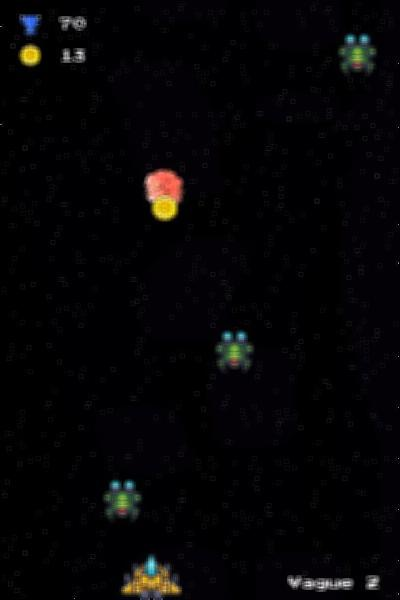
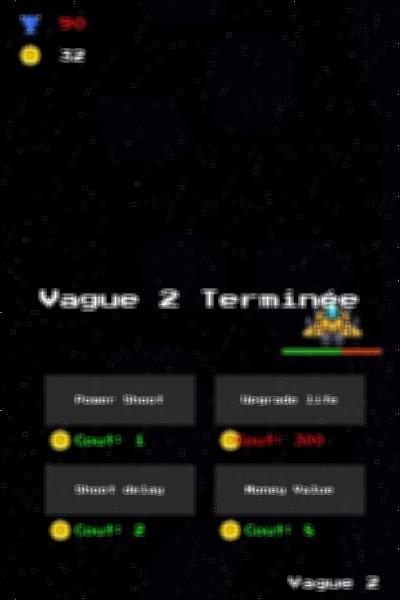
ajout d'une fonction pour supprimer le fichier d'une session
J'ai ajouté une fonction qui permet de supprimer le fichier texte d'une fonction. J'ai importé os qui gère la partie "dossiers/fichiers/répertoire", ça permet de se balader dans l'ordinateur. Donc quand je créer ou je me connecte à uen session, je supprime le fichier initialisation.txt et quand j'execute la fonction qui détruit une session, je supprime le fichier qui porte le nom de la session en question. Le nom de la session apparaît dans le menu en bas à gauche et aussi dans le menu pause. Dans le menu à coté du nom de la session il y a  un icon poubelle et quand on clique dessus ça supprime la session. (Faire attention pas de message d'avertissement lorsqu'on clique sur le bouton poubelle).

diff --git a/main.py b/main.py
@@ -4,6 +4,7 @@ from random import randint
 import sys
 from PIL import Image, ImageFilter
 from pygame.math import Vector2
+import os
 
 
 #Initialisation du jeu#
@@ -32,14 +33,14 @@ buttonimg = pygame.image.load("assets/menu/button.png")
 buttonimg = pygame.transform.scale(buttonimg,(150,50))
 screen = pygame.display.set_mode((400, 600))
 
-with open("initalisation.txt","w") as init :
+with open("initialisation.txt","w") as init :
     init.write("0\n0\n0\n0\n0\n0\n")
     init.close()
-nom_fichier = "initalisation.txt"
+nom_session = "initialisation"
 
 
 def saveread(score):
-    with open(nom_fichier,"r") as fichier:
+    with open(nom_session+'.txt',"r") as fichier:
         list = fichier.readlines()
         fichier.close()
     if score == "bestscore":
@@ -57,7 +58,7 @@ def saveread(score):
 
 def save(score,vol,pos,vol2,pos2):
     bestscore = saveread("bestscore")
-    fichier = open(nom_fichier,"w+")
+    fichier = open(nom_session+'.txt',"w+")
     if score > int(bestscore):
         fichier.write(str(score)+"\n"+str(score)+"\n"+str(vol)+"\n"+str(pos)+"\n"+str(vol2)+"\n"+str(pos2))
         fichier.close()
@@ -70,7 +71,7 @@ def save(score,vol,pos,vol2,pos2):
 
 
 def session():
-    global nom_fichier, existe_deja, existe_pas
+    global nom_session, existe_deja, existe_pas
     input_box = pygame.Rect(100, 100, 140,32)
     input_box1 = InputBox(100, 100, 140, 32)
     input_box2 = InputBox(100, 300, 140, 32)
@@ -88,14 +89,11 @@ def session():
             input_box1.handle_event_1(event)
             input_box2.handle_event_2(event)
 
-
         for box in input_boxes:
             box.update()
-
         screen.fill((30, 30, 30))
         screen.blit(INSCRIPTION_TEXT, INSCRIPTION_RECT)
         screen.blit(CONNEXION_TEXT,CONNEXION_RECT)
-
         for box in input_boxes:
             box.draw(screen)
         
@@ -120,7 +118,7 @@ class InputBox:
 
     
     def handle_event_1(self, event):
-        global existe_deja
+        global existe_deja,nom_session
         if event.type == pygame.MOUSEBUTTONDOWN:
             # If the user clicked on the input_box rect.
             if self.rect.collidepoint(event.pos):
@@ -133,21 +131,21 @@ class InputBox:
         if event.type == pygame.KEYDOWN:
             if self.active:
                 if event.key == pygame.K_RETURN:
-                    nom_fichier = str(self.text) + ".txt"
+                    nom_session = str(self.text).lower()
                     try:
-                        with open(nom_fichier, 'r') as f:
+                        with open(nom_session+'.txt', 'r') as f:
                             existe_deja = 1
                     except FileNotFoundError as e:
-                        nom_fichier = str(self.text)+'.txt'
-                        with open(nom_fichier, 'w+') as f:
+                        with open(nom_session+'.txt', 'w+') as f:
                             f.write("0\n0\n0\n0\n0\n0\n")
                             f.close()
+                        os.remove("initialisation.txt")
                         main_menu()
                     except IOError as e:
-                        nom_fichier = str(self.text)+'.txt'
-                        with open(nom_fichier, 'w+') as f:
+                        with open(nom_session+'.txt', 'w+') as f:
                             f.write("0\n0\n0\n0\n0\n0\n")
                             f.close()
+                        os.remove("initialisation.txt")
                         main_menu()
                     self.text = ''
                 elif event.key == pygame.K_BACKSPACE:
@@ -158,7 +156,7 @@ class InputBox:
                 self.txt_surface = get_font(12).render(self.text, True, self.color)
 
     def handle_event_2(self, event):
-        global existe_pas
+        global existe_pas,nom_session
         if event.type == pygame.MOUSEBUTTONDOWN:
             # If the user clicked on the input_box rect.
             if self.rect.collidepoint(event.pos):
@@ -171,10 +169,11 @@ class InputBox:
         if event.type == pygame.KEYDOWN:
             if self.active:
                 if event.key == pygame.K_RETURN:
-                    nom_fichier = str(self.text) + ".txt"
+                    nom_session = str(self.text).lower()
                     try:
-                        with open(nom_fichier, 'r') as f:
+                        with open(nom_session+'.txt', 'r') as f:
                             main_menu()
+                        os.remove("initialisation.txt")
                     except FileNotFoundError as e:
                         existe_pas = 1
                     except IOError as e:
@@ -495,9 +494,6 @@ class Game:
             self.last_monster = now
 
     
-
-
-
 #Déclaration des variables de son#
 volume = float(saveread("volume"))
 position= int(saveread("position"))
@@ -520,6 +516,9 @@ def options(menu):
         OPTIONS_RECT2 = OPTIONS_TEXT1.get_rect(center=(200,300))
         OPTIONS_POURCENTAGE_FOND_RECT = POURCENTAGE_FOND.get_rect(center=(40, 205))
         OPTIONS_POURCENTAGE_FOND_RECT2 = POURCENTAGE_FOND2.get_rect(center=(40, 355))
+        SESSION_TEXT = get_font(12).render(nom_session, True, "white")
+        SESSION_RECT = SESSION_TEXT.get_rect(bottomleft=(15, 580))
+        screen.blit(SESSION_TEXT,SESSION_RECT)
         screen.blit(OPTIONS_TEXT, OPTIONS_RECT)
         screen.blit(OPTIONS_TEXT1, OPTIONS_RECT1)
         screen.blit(OPTIONS_TEXT2, OPTIONS_RECT2)
@@ -664,6 +663,9 @@ def paused() :
         PLAY_BUTTON = Button(image=buttonimg, pos=(200, 200), text_input="Reprendre", font=get_font(12), base_color="White", hovering_color="Green")
         OPTIONS_BUTTON = Button(image=buttonimg, pos=(200, 280), text_input="Options", font=get_font(12), base_color="White", hovering_color="Green")
         QUIT_BUTTON = Button(image=buttonimg, pos=(200, 360), text_input="Menu", font=get_font(12), base_color="White", hovering_color="Green")
+        SESSION_TEXT = get_font(12).render(nom_session, True, "white")
+        SESSION_RECT = SESSION_TEXT.get_rect(bottomleft=(35, 580))
+        screen.blit(SESSION_TEXT,SESSION_RECT)
         OPTIONS_MOUSE_POS = pygame.mouse.get_pos()
 
         for button in [PLAY_BUTTON, OPTIONS_BUTTON, QUIT_BUTTON]:
@@ -728,9 +730,12 @@ def over_menu():
         pygame.display.update()
 
 def main_menu():
+    global nom_session
     mixer.music.load('sounds/01_Title-Screen.wav')
     mixer.music.set_volume(volume)
     mixer.music.play(-1, 0.0, 0)
+    trashimg = pygame.image.load('assets/icon/trash.png')
+    trashimg = pygame.transform.scale(trashimg,(30,30))
     while True:
         BG = pygame.image.load("assets/menu/Background.png")
         best_score = pygame.image.load('assets/icon/best_score.png')
@@ -741,23 +746,24 @@ def main_menu():
         MENU_MOUSE_POS = pygame.mouse.get_pos()
         MENU_TEXT = get_font(23).render("SpaceShooter", True, "#b68f40")
         MENU_RECT = MENU_TEXT.get_rect(center=(200, 80))
-        PLAY_BUTTON = Button(image=buttonimg, pos=(200, 200), 
-                            text_input="PLAY", font=get_font(12), base_color="White", hovering_color="Green")
-        OPTIONS_BUTTON = Button(image=buttonimg, pos=(200, 280), 
-                            text_input="OPTIONS", font=get_font(12), base_color="White", hovering_color="Green")
-        QUIT_BUTTON = Button(image=buttonimg, pos=(200, 360), 
-                            text_input="QUIT", font=get_font(12), base_color="White", hovering_color="Green")
+        PLAY_BUTTON = Button(image=buttonimg, pos=(200, 200), text_input="PLAY", font=get_font(12), base_color="White", hovering_color="Green")
+        OPTIONS_BUTTON = Button(image=buttonimg, pos=(200, 280), text_input="OPTIONS", font=get_font(12), base_color="White", hovering_color="Green")
+        QUIT_BUTTON = Button(image=buttonimg, pos=(200, 360),text_input="QUIT", font=get_font(12), base_color="White", hovering_color="Green")
         Best_Score_TEXT = get_font(12).render("Meilleur Score : "+ saveread("bestscore"), True, "white")
         Best_Score_RECT = Best_Score_TEXT.get_rect(topleft=(100, 442))
         Prec_Score_TEXT = get_font(12).render(("Score Précédent : "+ saveread("prec")), True, "white")
         Prec_Score_RECT = Prec_Score_TEXT.get_rect(topleft=(100, 493))
+        SESSION_TEXT = get_font(12).render(nom_session, True, "white")
+        SESSION_RECT = SESSION_TEXT.get_rect(bottomleft=(40, 580))
+        DELETE_BUTTON = Button(image=trashimg, pos=(25, 570), text_input="", font=get_font(12), base_color="White", hovering_color="Green")
         screen.blit(MENU_TEXT, MENU_RECT)
         screen.blit(Best_Score_TEXT, Best_Score_RECT)
         screen.blit(Prec_Score_TEXT, Prec_Score_RECT)
         screen.blit(best_score,(55,438))
         screen.blit(prec_score,(55,488))
+        screen.blit(SESSION_TEXT,SESSION_RECT)
 
-        for button in [PLAY_BUTTON, OPTIONS_BUTTON, QUIT_BUTTON]:
+        for button in [PLAY_BUTTON, OPTIONS_BUTTON,DELETE_BUTTON, QUIT_BUTTON]:
             button.changeColor(MENU_MOUSE_POS)
             button.update(screen)
         
@@ -773,6 +779,13 @@ def main_menu():
                     jeu()
                 if OPTIONS_BUTTON.checkForInput(MENU_MOUSE_POS):
                     options("menu")
+                if DELETE_BUTTON.checkForInput(MENU_MOUSE_POS) :
+                    with open('initialisation.txt',"w") as f:
+                        f.write("0\n0\n0\n0\n0\n0\n")
+                        f.close()
+                    os.remove(nom_session+'.txt')
+                    nom_session = "initialisation"
+                    session()
                 if QUIT_BUTTON.checkForInput(MENU_MOUSE_POS):
                     pygame.quit()
                     sys.exit()
@@ -816,7 +829,7 @@ def jeu():
     count = 0
     pause = 0
     cost_power=1
-    cost_life=1
+    cost_life=300
     cost_delay=1
     cost_earning=1
     spawn_delay = 20
@@ -900,7 +913,7 @@ def jeu():
             screen.blit(VagueFinish_TEXT, VagueFinish_RECT)
             VAGUE_MOUSE_POS=pygame.mouse.get_pos()
             POWER_SHOOT_BUTTON = Button(image=buttonimg, pos=(120, 400), text_input="Power Shoot", font=get_font(8), base_color="White", hovering_color=color1)
-            LIFE_BUTTON = Button(image=buttonimg, pos=(290, 400), text_input="Upygamerade life", font=get_font(8), base_color="White", hovering_color=color2)
+            LIFE_BUTTON = Button(image=buttonimg, pos=(290, 400), text_input="Upgrade life", font=get_font(8), base_color="White", hovering_color=color2)
             SHOOT_DELAY_BUTTON = Button(image=buttonimg, pos=(120, 490), text_input="Shoot delay", font=get_font(8), base_color="White", hovering_color=color3)
             EARNING_BUTTON = Button(image=buttonimg, pos=(290, 490), text_input="Money Value", font=get_font(8), base_color="White", hovering_color=color4)
             screen.blit(money,(50,430))
@@ -1021,7 +1034,6 @@ def jeu():
                         if game.player.money >= cost_life and (game.player.health+15) <= game.player.max_health:
                             game.player.health += 15
                             game.player.money -= cost_life
-                            cost_life*=2
                     if SHOOT_DELAY_BUTTON.checkForInput(VAGUE_MOUSE_POS):
                         if game.player.money >= cost_delay and game.player.shoot_delay >=100:
                             game.player.shoot_delay -= 10
